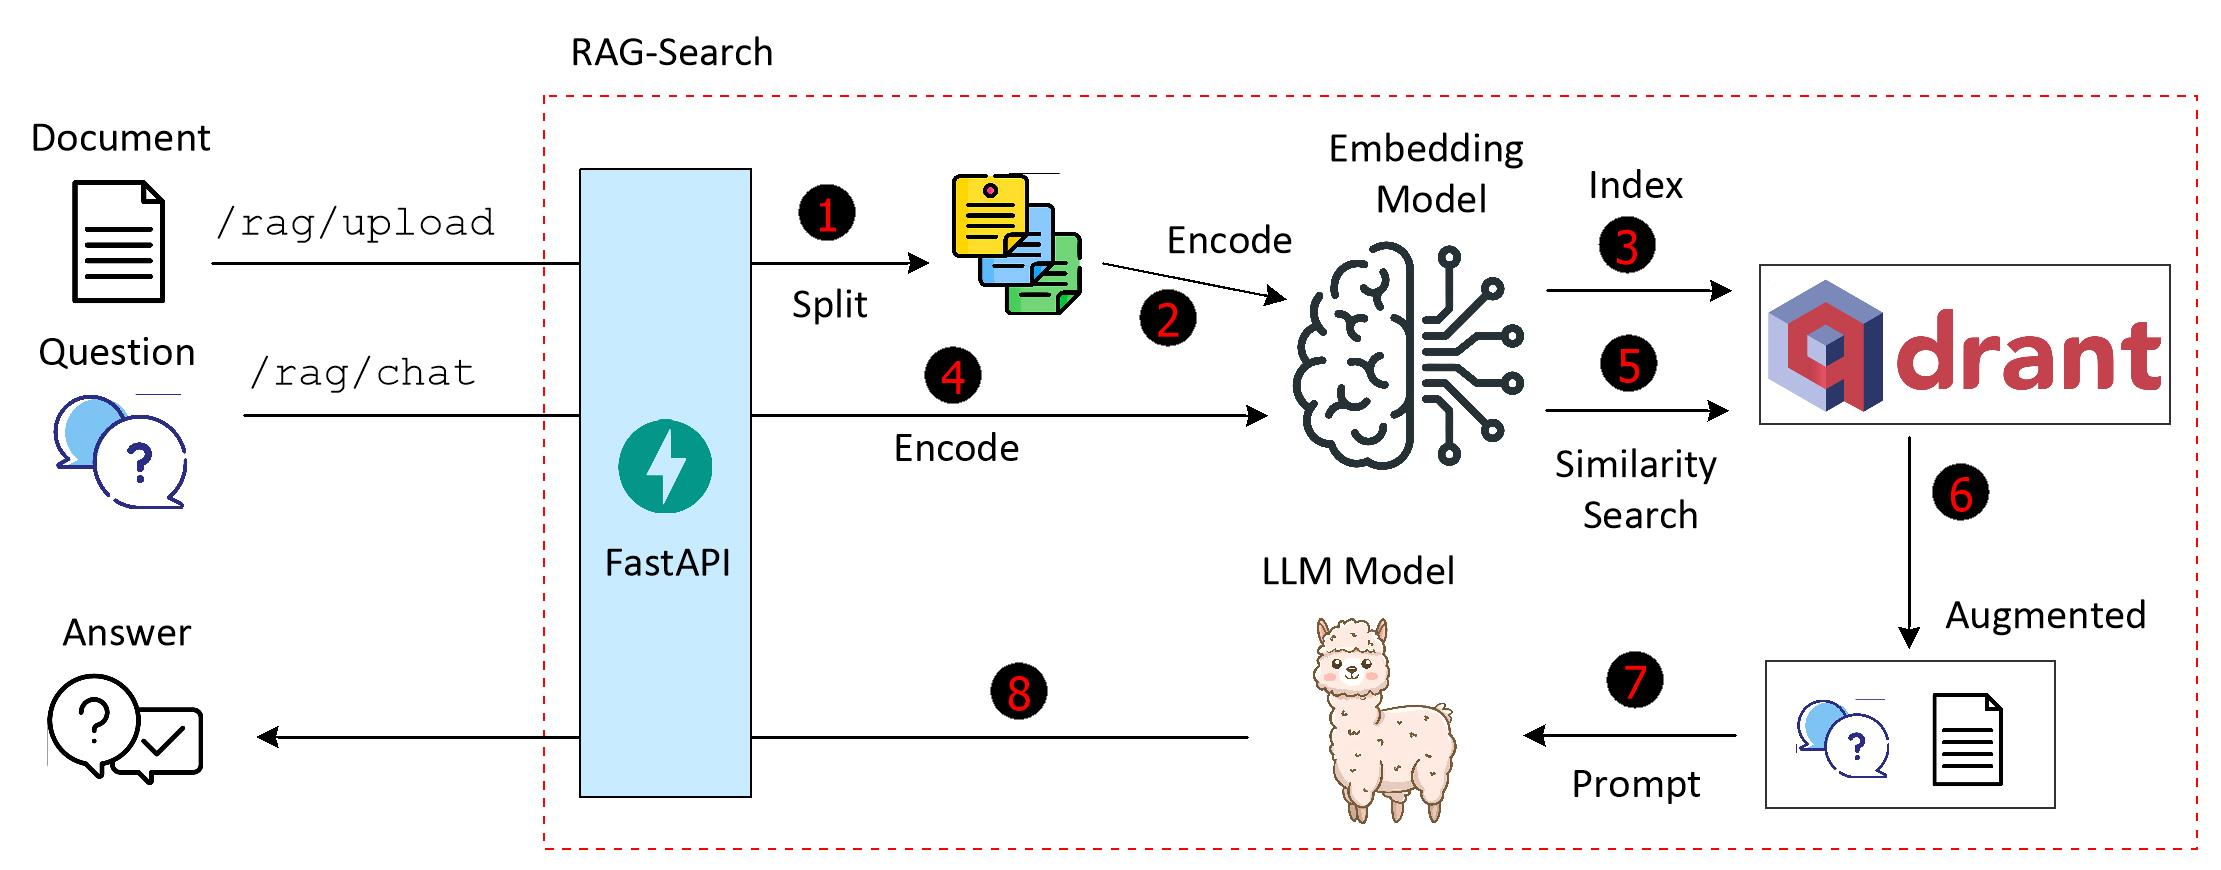
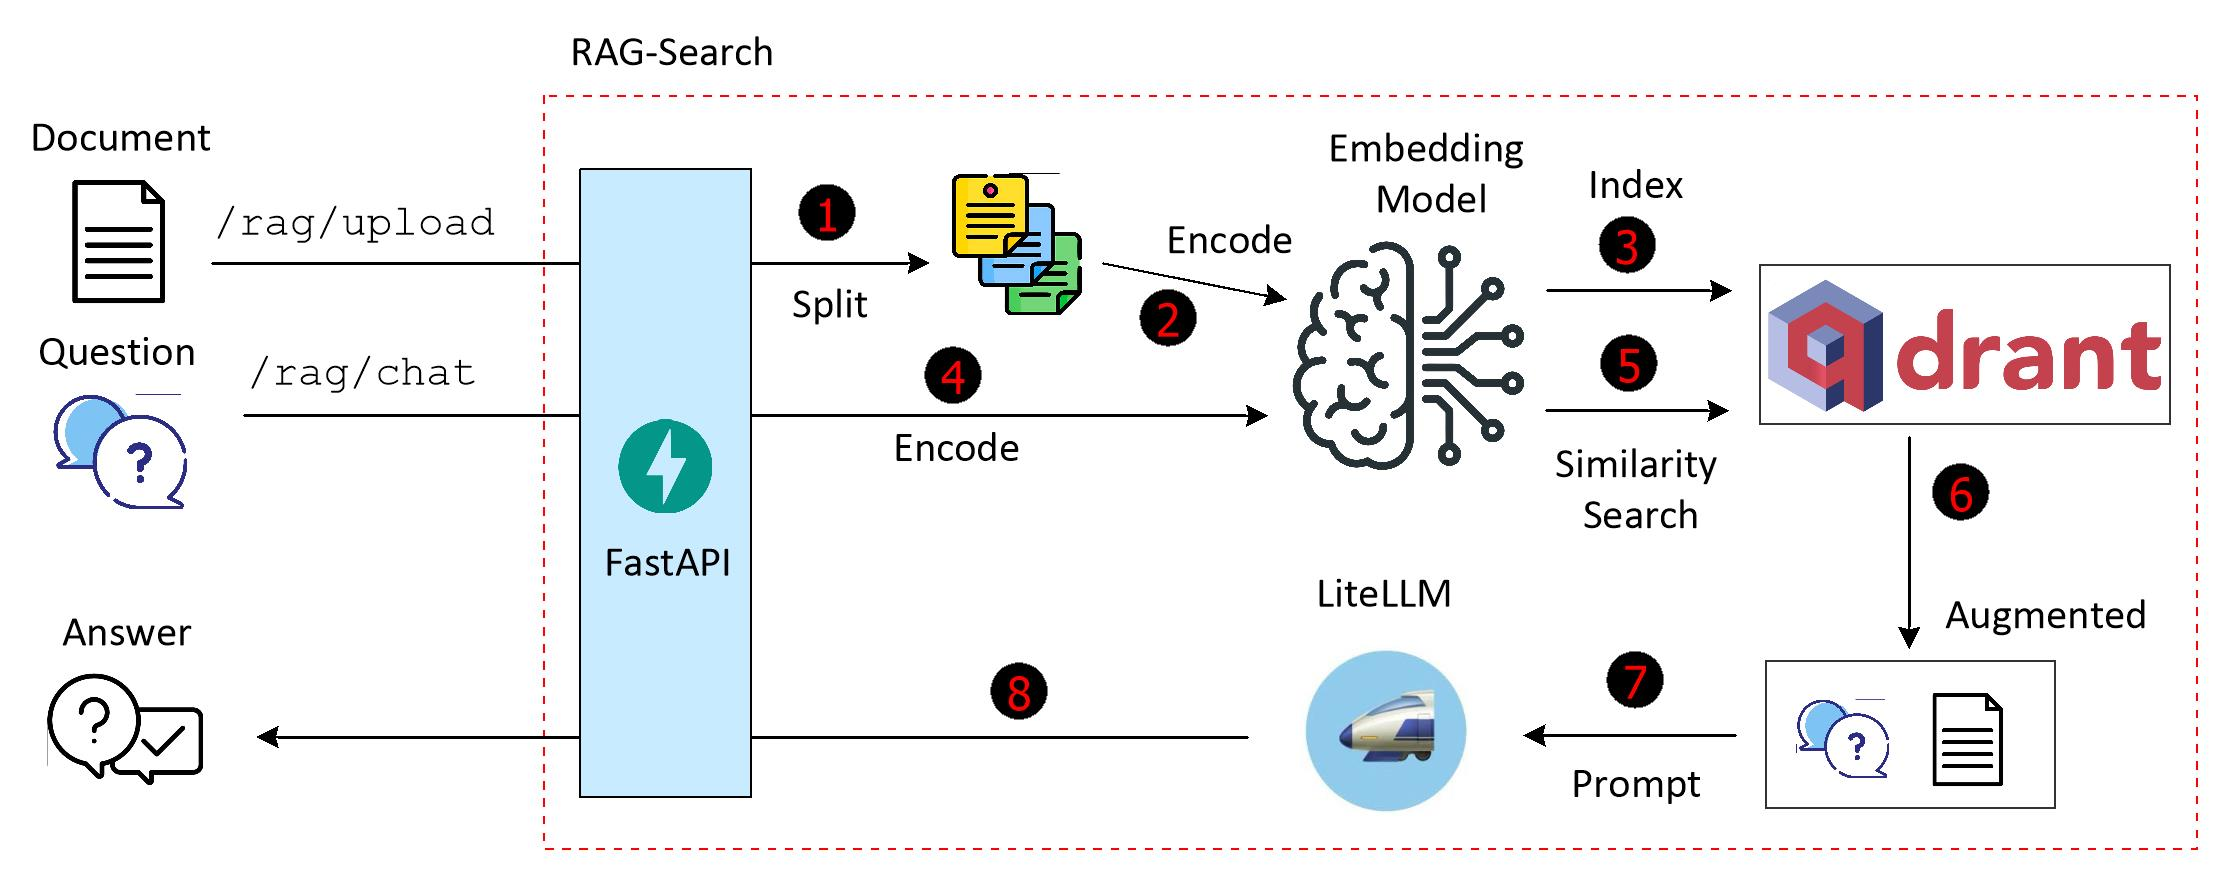
switch to use litellm

Changed region(s): [[0.5592, 0.6207, 0.6835, 0.9621]]

diff --git a/core/services/lite_llm.py b/core/services/lite_llm.py
@@ -1,0 +1,131 @@
+
+import os
+import sys
+import requests
+from dotenv import load_dotenv
+
+load_dotenv()
+
+
+class LiteLLM:
+
+    def __init__(self, url):
+
+        self.base_url = url.rstrip("/")
+
+        OPENAI_API_KEY = os.getenv('OPENAI_API_KEY', None)
+        if not OPENAI_API_KEY:
+            print("OPENAI_API_KEY environment variable is not set")
+            sys.exit(1)
+
+        self.headers = {
+            "Content-Type": "application/json",
+            "Authorization": f"Bearer {OPENAI_API_KEY}"
+        }
+
+
+    def is_reachable(self, timeout=3):
+
+        try:
+            response = requests.get(self.base_url, timeout=timeout)
+            if response.status_code == 200:
+                return True
+            print(f"LiteLLM is not reachable: Unexpected status code: {response.status_code}")
+            return False
+        except requests.exceptions.RequestException as e:
+            print(f"LiteLLM is not reachable: {str(e)}")
+            return False
+
+
+    def list_models(self) -> list:
+        """ Returns a list of all available model names. """
+
+        try:
+            res = requests.get(f"{self.base_url}/models", headers=self.headers, timeout=10)
+            res.raise_for_status()
+            resp = res.json()
+            data = resp.get("data", {})
+            model_ids = [item["id"] for item in data]
+            return model_ids
+        except Exception as e:
+            print(f"[Model List Error] {e}")
+            return []
+
+
+    def is_available(self, model_name: str) -> bool:
+        """ Checks if a model is available on litellm. """
+
+        return model_name in self.list_models()
+
+
+    def get_model_info(self, model_name: str):
+        """ Returns model info. """
+
+        try:
+
+            res = requests.get(f"{self.base_url}/model/info", headers=self.headers, timeout=10)
+            res.raise_for_status()
+            result = res.json()
+            data = result.get("data", [])
+
+            model_details = next((item for item in data if item["model_name"] == model_name), None)
+            if not model_details:
+                return {}
+
+            litellm_params = model_details.get("litellm_params", {})
+            model_info = model_details.get("model_info", {})
+
+            if model_name.startswith("ollama/"):
+                return self.get_ollama_model_info(model_name, litellm_params)
+
+            return model_info
+
+        except Exception as e:
+            print(f"[Model Detail Error] {e}")
+            return {}
+
+
+    def get_ollama_model_info(self, model_name, litellm_params):
+        """ Returns model info.
+
+        {
+            "general.architecture": "llama",
+            "general.file_type": 2,
+            "general.parameter_count": 8030261248,
+            "general.quantization_version": 2,
+            "llama.attention.head_count": 32,
+            "llama.attention.head_count_kv": 8,
+            "llama.attention.layer_norm_rms_epsilon": 1e-05,
+            "llama.block_count": 32,
+            "llama.context_length": 8192,
+            "llama.embedding_length": 4096,
+            "llama.feed_forward_length": 14336,
+            "llama.rope.dimension_count": 128,
+            "llama.rope.freq_base": 500000,
+            "llama.vocab_size": 128256,
+            "tokenizer.ggml.bos_token_id": 128000,
+            "tokenizer.ggml.eos_token_id": 128009,
+            "tokenizer.ggml.merges": null,
+            "tokenizer.ggml.model": "gpt2",
+            "tokenizer.ggml.pre": "llama-bpe",
+            "tokenizer.ggml.token_type": null,
+            "tokenizer.ggml.tokens": null
+        }
+        """
+
+        try:
+
+            api_base = litellm_params.get("api_base", None)
+            if not api_base:
+                return {}
+
+            model_name = model_name.removeprefix("ollama/")
+            data = {"model": model_name}
+            res = requests.post(f"{api_base}/api/show", json=data, timeout=10)
+            res.raise_for_status()
+
+            result = res.json()
+            return result["model_info"]
+        except Exception as e:
+            print(f"[Model Detail Error] {e}")
+            return {}

diff --git a/core/services/main_llm.py b/core/services/main_llm.py
@@ -10,17 +10,18 @@ from fastapi import HTTPException
 from fastapi import Query
 from fastapi.responses import StreamingResponse
 
-from langchain_ollama import OllamaLLM
+from langchain_openai import ChatOpenAI
+from langchain.schema import AIMessage
 from langchain.prompts import ChatPromptTemplate
 from langchain_community.chat_message_histories import ChatMessageHistory
 from langchain_core.runnables.history import RunnableWithMessageHistory
 
 import config
-from services.ollama_models import OllamaModels
+from services.lite_llm import LiteLLM
 from services.streaming import token_generator, QueueCallbackHandler
 
-ollama_obj = OllamaModels(config.ollama_url)
-if not ollama_obj.check_health():
+litellm_obj = LiteLLM(config.lite_llm_url)
+if not litellm_obj.is_reachable():
     sys.exit(1)
 
 # Session memory store (in-memory)
@@ -40,21 +41,14 @@ class ChatRequest(BaseModel):
 @app.get("/models")
 def get_llm_models():
 
-    models = ollama_obj.list_models()
+    models = litellm_obj.list_models()
     return {"models": models}
-
-
-@app.get("/model-details")
-def get_model_details(model_name: str = Query(...)):
-
-    detail_map = ollama_obj.get_model_details(model_name)
-    return detail_map
 
 
 @app.get("/model-info")
 def get_model_info(model_name: str = Query(...)):
 
-    info_map = ollama_obj.get_model_info(model_name)
+    info_map = litellm_obj.get_model_info(model_name)
     return info_map
 
 #############################
@@ -86,13 +80,12 @@ def chat_llm(req: ChatRequest):
         Answer:
     """)
 
-    if not ollama_obj.is_available(llm_model):
+    if not litellm_obj.is_available(llm_model):
         raise HTTPException(status_code=400, detail=f"LLM model '{llm_model}' not loaded.")
 
-    llm = OllamaLLM(model=llm_model,
-                    base_url=config.ollama_url,
-                    num_ctx=9000,
-                    temperature=0.5)
+    llm = ChatOpenAI(base_url=config.lite_llm_url,
+                     model=llm_model,
+                     temperature=0.5)
 
     llm_chain = custom_prompt | llm
 
@@ -111,7 +104,11 @@ def chat_llm(req: ChatRequest):
         config={"configurable": {"session_id": session_id}}
     )
 
-    return {"answer": result}
+    if isinstance(result, AIMessage):
+        return {"answer": result.content}
+
+    raise HTTPException(status_code=400, detail=f"Was expecting an AIMessage.")
+
 
 
 @app.post("/chat-stream")
@@ -144,15 +141,15 @@ def chat_stream(req: ChatRequest):
     q = Queue()
     handler = QueueCallbackHandler(queue=q)
 
-    if not ollama_obj.is_available(llm_model):
+    if not litellm_obj.is_available(llm_model):
         raise HTTPException(status_code=400, detail=f"LLM model '{llm_model}' not loaded.")
 
     # Streaming-capable LLM
-    llm = OllamaLLM(model=llm_model,
-                    base_url=config.ollama_url,
-                    num_ctx=9000,
-                    temperature=0.5,
-                    callbacks=[handler])
+    llm = ChatOpenAI(base_url=config.lite_llm_url,
+                     model=llm_model,
+                     temperature=0.5,
+                     callbacks=[handler],
+                     streaming=True)
 
     llm_chain = custom_prompt | llm
 

diff --git a/core/services/main_rag.py b/core/services/main_rag.py
@@ -15,7 +15,7 @@ from fastapi.responses import JSONResponse
 
 from langchain.text_splitter import RecursiveCharacterTextSplitter
 from langchain.chains import ConversationalRetrievalChain
-from langchain_ollama import OllamaLLM
+from langchain_openai import ChatOpenAI
 from langchain_community.vectorstores.utils import filter_complex_metadata
 from langchain_unstructured import UnstructuredLoader
 from langchain.prompts import PromptTemplate
@@ -24,15 +24,14 @@ from langchain_community.chat_message_histories import ChatMessageHistory
 from langchain.schema.document import Document
 
 import config
-from services.ollama_models import OllamaModels
+from services.lite_llm import LiteLLM
 from services.remote_embedding import RemoteEmbedding
 from services.qdrant_db import Qdrant_DB
 from services.streaming import token_generator, QueueCallbackHandler
 
-ollama_obj = OllamaModels(config.ollama_url)
-if not ollama_obj.check_health():
+litellm_obj = LiteLLM(config.lite_llm_url)
+if not litellm_obj.is_reachable():
     sys.exit(1)
-print("Ollama server is reachable.")
 
 qdrant_obj = Qdrant_DB(qdrant_url=config.qdrant_url, embedding_url=config.embedding_url)
 
@@ -564,13 +563,12 @@ def chat(req: ChatRequest):
         Answer:
     """)
 
-    if not ollama_obj.is_available(llm_model):
+    if not litellm_obj.is_available(llm_model):
         raise HTTPException(status_code=400, detail=f"LLM model '{llm_model}' not loaded.")
 
-    llm = OllamaLLM(model=llm_model,
-                    base_url=config.ollama_url,
-                    num_ctx=9000,
-                    temperature=0.5)
+    llm = ChatOpenAI(base_url=config.lite_llm_url,
+                     model=llm_model,
+                     temperature=0.5)
 
     # This will inject the retrieved documents into {context} in the prompt
     qa_chain = ConversationalRetrievalChain.from_llm(llm=llm,
@@ -680,15 +678,15 @@ def chat_stream(req: ChatRequest):
     q = Queue()
     handler = QueueCallbackHandler(queue=q)
 
-    if not ollama_obj.is_available(llm_model):
+    if not litellm_obj.is_available(llm_model):
         raise HTTPException(status_code=400, detail=f"LLM model '{llm_model}' not loaded.")
 
     # Streaming-capable LLM
-    llm = OllamaLLM(model=llm_model,
-                    base_url=config.ollama_url,
-                    num_ctx=9000,
-                    temperature=0.5,
-                    callbacks=[handler])
+    llm = ChatOpenAI(base_url=config.lite_llm_url,
+                     model=llm_model,
+                     temperature=0.5,
+                     callbacks=[handler],
+                     streaming=True)
 
     # This will inject the retrieved documents into {context} in the prompt
     qa_chain = ConversationalRetrievalChain.from_llm(

diff --git a/core/main.py b/core/main.py
@@ -1,6 +1,7 @@
 
 import uvicorn
 import logging
+from dotenv import load_dotenv
 
 from fastapi import FastAPI, Request
 from fastapi.middleware.cors import CORSMiddleware
@@ -9,6 +10,8 @@ from fastapi.templating import Jinja2Templates
 from fastapi.responses import HTMLResponse
 from fastapi.responses import FileResponse
 from fastapi import APIRouter
+
+load_dotenv()
 
 # Suppress info/debug logs from Qdrant or HTTPX
 logging.getLogger("qdrant_client").setLevel(logging.WARNING)

diff --git a/core/config.py b/core/config.py
@@ -1,10 +1,10 @@
 # config.py
 
-ollama_url = "http://ollama_rag:11434"
+lite_llm_url = "http://apollo.home:4000"
+
 qdrant_url = "http://qdrant_rag:6333"
 embedding_url = "http://embed-server:5005"
 
-# ollama_url = "http://localhost:11435"
 # qdrant_url = "http://localhost:6333"
 # embedding_url = "http://localhost:5005"
 

diff --git a/README.md b/README.md
@@ -15,7 +15,9 @@ Embedding is the process of transforming raw data-such as words, sentences, or d
 
 To maintain modularity and scalability, RAG-Search is designed to support `remote` embedding. Instead of performing embedding computations locally, RAG-Search sends text data over HTTP to a dedicated embedding server-typically running on a host with GPU acceleration. This separation allows embedding workloads to be isolated from the main application, ensuring better performance, efficient GPU utilization, and easier horizontal scaling. The main application simply sends a request and receives a semantic vector in response, making it easy to plug in different embedding models or upgrade hardware independently of the rest of the system.
 
-Similarly, the LLM backend-powered by Ollama-can also run on a separate server. This decoupling means RAG-Search can communicate with powerful language models hosted elsewhere, whether on-premise or in the cloud. This architecture provides flexibility: developers can use lightweight machines for the web interface and delegate heavy model inference to machines with specialized resources like GPUs. It also opens the door for model multiplexing and centralized model orchestration, without complicating the frontend experience.
+For LLM integration, we leverage [LiteLLM](https://www.litellm.ai/), a lightweight and extensible framework that abstracts over various LLM providers such as OpenAI, Anthropic, Mistral, HuggingFace, Ollama and more. This allows users to easily switch between different LLM backends without changing application logic, offering flexibility for experimentation, cost optimization, or performance tuning. You can find more explanation on LiteLLM setup in my home network in [here](https://blog.homelabtech.dev/content/Local_LLM_Hosting.html#LiteLLM).
+
+This decoupling means RAG-Search can communicate with powerful language models hosted elsewhere, whether on-premise or in the cloud. This architecture provides flexibility: developers can use lightweight machines for the web interface and delegate heavy model inference to machines with specialized resources like GPUs. It also opens the door for model multiplexing and centralized model orchestration, without complicating the frontend experience.
 
 ### Embedding Models
 
@@ -87,31 +89,13 @@ Start all the containers:
 
     docker compose up -d
 
-Allow enough time for the `rag-search` container to get initialized. The `rag-search` backend can connect to ollama, qdrant, and embed-server either locally within Docker or externally across hosts (e.g., in production or distributed deployment). In latter case, update the service endpoint URLs in [config.py](core/config.py) as needed.
+Allow enough time for the `rag-search` container to get initialized. The `rag-search` backend can connect to LiteLLM, qdrant, and embed-server either locally within Docker or externally across hosts (e.g., in production or distributed deployment). In latter case, update the service endpoint URLs in [config.py](core/config.py) as needed.
 
 These URLs provide access to different parts of the `rag-search`:
 
 - Web Interface: http://localhost:8000/
 - Swagger API docs: http://localhost:8000/api/docs
 - API Base URL: http://localhost:8000/api/v1/
-
-### Setting up Ollama Server
-
-Open an interactive shell to the container:
-
-    docker exec -it ollama_rag bash
-
-Run the following to confirm that the container has access to the host GPU:
-
-    nvidia-smi
-
-This should return a table showing your GPU, driver version, and usage.
-
-You can also check `docker logs ollama_rag` to ensure that the GPU is detected.
-
-Pull a LLM model:
-
-    ollama pull llama3:8b
 
 ### Setting up Embedding Server
 
@@ -122,6 +106,8 @@ To verify that GPU support is working inside the `embed-server` container, open 
 Run the following to confirm that the container has access to the host GPU:
 
     nvidia-smi
+
+This should return a table showing your GPU, driver version, and usage.
 
 Confirm that CUDA is available in Python:
 
@@ -137,7 +123,7 @@ RAG-Search exposes a set of RESTful API endpoints grouped into two categories:
 
     | Method | Endpoint             | Description                                                             |
     |--------|----------------------|-------------------------------------------------------------------------|
-    | GET    | /llm/models          | Returns list of available LLM models from the Ollama backend            |
+    | GET    | /llm/models          | Returns list of available LLM models from LiteLLM                       |
     | GET    | /llm/model-info      | Returns basic model metadata (e.g., architecture, quantization, vocab)  |
     | GET    | /llm/model-details   | Returns extended details including parameters, tokenizer info, etc.     |
     | POST   | /llm/chat            | Sends a question to the selected LLM model and returns full response    |
